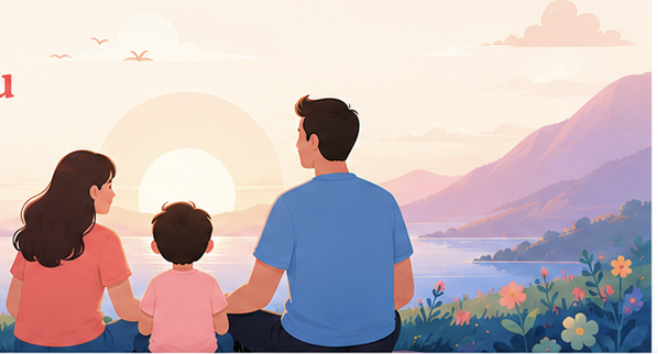
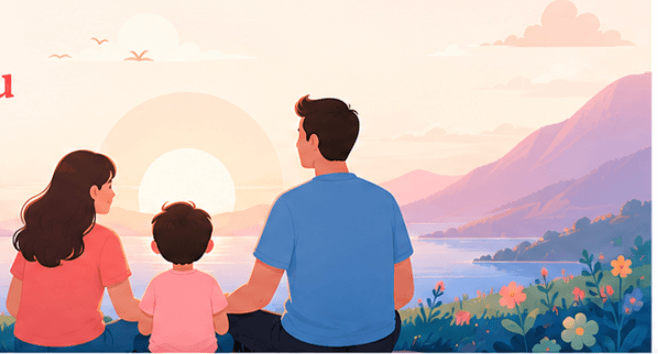
perf: compress images — convert display PNGs to WebP, shrink OG image
- family-whatsapp.png  1293 KB → family-whatsapp.webp  52 KB  (-96%)
- family_walking.png   1724 KB → family_walking.webp   103 KB  (-94%)
- whats_app_circle.png  949 KB → whats_app_circle.webp  27 KB  (-97%)
- family-sunset.png     333 KB →                        77 KB  (-77%, stays PNG for OG/Twitter scrapers)

Update src references in login and landing pages to use .webp.

diff --git a/app/page.tsx b/app/page.tsx
@@ -368,7 +368,7 @@ export default function LandingPage() {
         {/* Center — WhatsApp circle */}
         <div className="lp-hero-circle" style={{ display: "flex", alignItems: "center", justifyContent: "center", flexShrink: 0 }}>
           {/* eslint-disable-next-line @next/next/no-img-element */}
-          <img src="/whats_app_circle.png" alt="Log health via WhatsApp" style={{ width: 280, height: 280, objectFit: "contain" }} />
+          <img src="/whats_app_circle.webp" alt="Log health via WhatsApp" style={{ width: 280, height: 280, objectFit: "contain" }} />
         </div>
 
         {/* Right — mockup */}
@@ -467,7 +467,7 @@ export default function LandingPage() {
             {/* eslint-disable-next-line @next/next/no-img-element */}
             <img
               className="lp-family-img"
-              src="/family_walking.png"
+              src="/family_walking.webp"
               alt="Family health"
               style={{
                 width: 480, borderRadius: 20,

diff --git a/app/login/page.tsx b/app/login/page.tsx
@@ -132,7 +132,7 @@ export default function LoginPage() {
         <div className="login-hero-image" style={{ flex: 1, position: "relative", zIndex: 1, marginTop: 16, borderRadius: "16px 16px 0 0", overflow: "hidden", minHeight: 0 }}>
           {/* eslint-disable-next-line @next/next/no-img-element */}
           <img
-            src="/family-whatsapp.png"
+            src="/family-whatsapp.webp"
             alt="Family using WhatsApp"
             style={{ width: "100%", height: "100%", objectFit: "cover", objectPosition: "top center", display: "block", borderRadius: "16px 16px 0 0" }}
           />